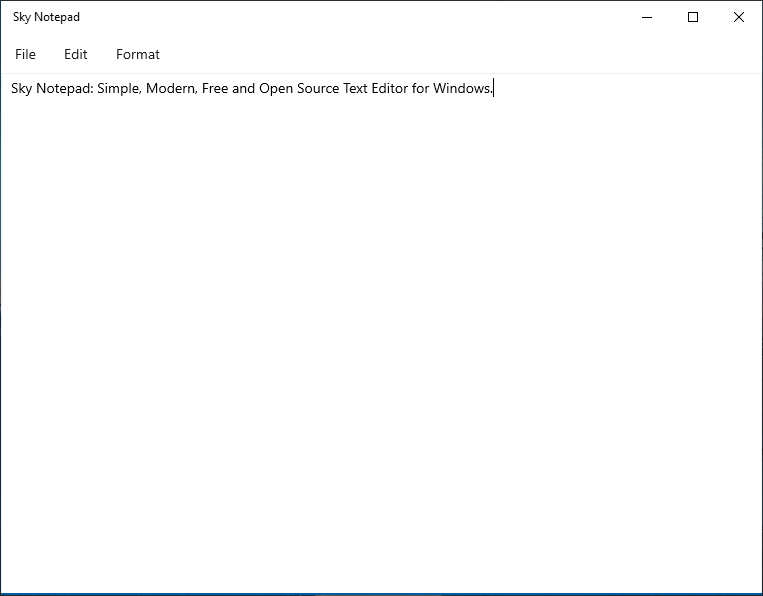
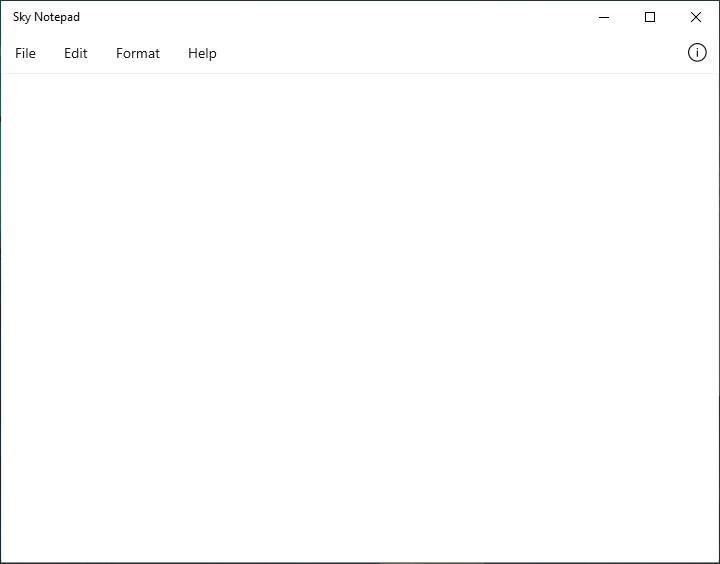
some changes about preview

diff --git a/README.md b/README.md
@@ -5,8 +5,8 @@
 <a href="https://github.com/AlperAkca79/SkyNotepad/releases/tag/0.6.2.0">
     <img src="res/badge-github.png" height="85" width="250">
 </a>
-<a href="404.md">
-    <img src="res/badge-microsoft-store.png" height="85" width="250" style="margin-left: 375px;">
+<a href="docs/404.md">
+    <img src="res/badge-microsoft-store.png" height="85" width="250" style="float: right;">
 </a>
 
 # What is Sky Notepad?
@@ -15,9 +15,9 @@ Sky Notepad is Simple, Modern, Free and Open Source **Text Editor** for Windows.
 NOTE: Sky Notepad is still in development and preview. If you see an bug please create a new issue from [here](https://github.com/AlperAkca79/SkyNotepad/issues/new).
 
 # About
-- Version: Preview v0.6.2.0
+- Version: Preview v0.7.0.0
 - First Build Date: Friday, February 10, 2023
-- Last Update: Saturday, February 18, 2023 3:48 PM (UTC +03:00)
+- Last Update: Sunday, February 19, 2023 7:11 PM (UTC +03:00)
 - License: [MIT License](https://github.com/AlperAkca79/SkyNotepad#License)
 - Platform Architecture: x86, x64
 - Supported OS(s): Windows 10/11
@@ -27,11 +27,11 @@ NOTE: Sky Notepad is still in development and preview. If you see an bug please 
 # Screenshots
 ![](res/sky-notepad-ui.png "Main UI")
 
-![](res/new-fluent-menu-item-icons.png "Fluent Icons")
+![](res/edit-menu-sky-notepad.png "Search in Web")
 
-![](res/edit-menu-items.png "Search in Web")
+![](res/help-menu-sky-notepad.png "Help Menu")
 
-![](res/word-wrap-and-spell-check.png "Word Wraping & Spell Checking")
+![](res/about-sky-notepad.png "Word Wraping & Spell Checking")
 
 # Features
 - Word Wrapping
@@ -41,6 +41,7 @@ NOTE: Sky Notepad is still in development and preview. If you see an bug please 
         - Microsoft Bing
         - Google
         - DuckDuckGo
+- Fluent Desing
 
 # Shortcuts
 - **(CTRL + N)** Create New File
@@ -55,9 +56,15 @@ NOTE: Sky Notepad is still in development and preview. If you see an bug please 
 - **(CTRL + V)** Paste
 - **(CTRL + A)** Select All Text
 - **(F5)** Puts Systems Date/Time
+- **(ALT + Z)** Toggle Word Wrapping
+- **(ALT + X)** Toggle Spell Checking
+
+# Changelog
+
+See the changelog for all versions [here](docs/changelog.md).
 
 # How to Download?
-- Download **.cer** and **.msixbundle** files from [here](https://github.com/AlperAkca79/SkyNotepad/releases/tag/0.6.2.0).
+- Download **.cer** and **.msixbundle** files from [here](https://github.com/AlperAkca79/SkyNotepad/releases/tag/0.7.0.0).
 - Double click to open **.cer** file.
 - Click **"Install Certificate..."**.
 - Select **"Local Machine"** and click **"Next"**.
@@ -88,7 +95,10 @@ Prerequisites:
 
 # Dependencies and References
 - [Windows UI Library (WinUI 2)](https://github.com/Microsoft/microsoft-ui-xaml)
+<img src="res/microsoft-xaml-ui.png" height="20" width="20">
+
 - [Segoe Fluent Icon (No Longer Available for Preview v0.6.2.0 and Above)](https://github.com/microsoft/fluentui-system-icons)
+- [Windows Community Toolkit🧰](https://github.com/CommunityToolkit/WindowsCommunityToolkit)
 
 # Security Policy
 See [here](https://github.com/AlperAkca79/SkyNotepad/blob/master/SECURITY.md) for Version support and more.

diff --git a/docs/CHANGELOG.md b/docs/CHANGELOG.md
@@ -1,0 +1,40 @@
+# Changelog
+Latest Version: Preview v0.7.0.0
+
+### Version Preview v0.1.0.0
+First version of Sky Notepad.
+
+***
+
+
+### Version Preview v0.4.0.0
+- Added Spell Check option in Format menu.
+- Added web search for selected text.
+- Added Icons for menu items.
+
+***
+
+### Version Preview v0.4.5.0
+- Issue #1 for Web Search Fixed. (You can search in web now with google and microsoft bing.)
+
+***
+
+### Version Preview v0.6.0.0
+- Added support for DuckDuckGo for Search in Web.
+- Changed menu item icons to fluent.
+- Added shortcuts for menu item commands.
+
+***
+
+### Version Preview v0.6.2.0
+- #2 In preview v0.6.0.0 it comes out for no reason when clicking on menu items.
+- Changed menu item icons to Segoe MDL2 Assets. (For solve the bug.)
+
+***
+
+### Version Preview v0.7.0.0
+- Added "Help" menu.
+- Added "About" button in the upper right corner.
+- Added "Repository" item to help menu.
+- Added "License" item to help menu
+- Added "Report an Issue" item to help menu

diff --git a/SECURITY.md b/SECURITY.md
@@ -2,13 +2,14 @@
 
 ## Supported Versions
 
-| Versions          | Is Supported       |
-| -------           | ------------------ |
-| Preview 0.1.0.0   | :x:                |
-| Preview 0.4.0.0   | :x:                |
-| Preview 0.4.5.0   | :x:                |
-| Preview 0.6.0.0   | :x:                |
-| Preview 0.6.2.0   | :white_check_mark: |
+| Versions           | Is Supported       |
+| -------            | ------------------ |
+| Preview v0.1.0.0   | :x:                |
+| Preview v0.4.0.0   | :x:                |
+| Preview v0.4.5.0   | :x:                |
+| Preview v0.6.0.0   | :x:                |
+| Preview v0.6.2.0   | :x:                |
+| Preview v0.7.0.0   | :while_check_mark: |
 
 ## Reporting a Vulnerability
 If you find a vulnerability in the **Sky Notepad** project, create a new issue titled "Vulnerability" and describe the security vulnerability in detail.
